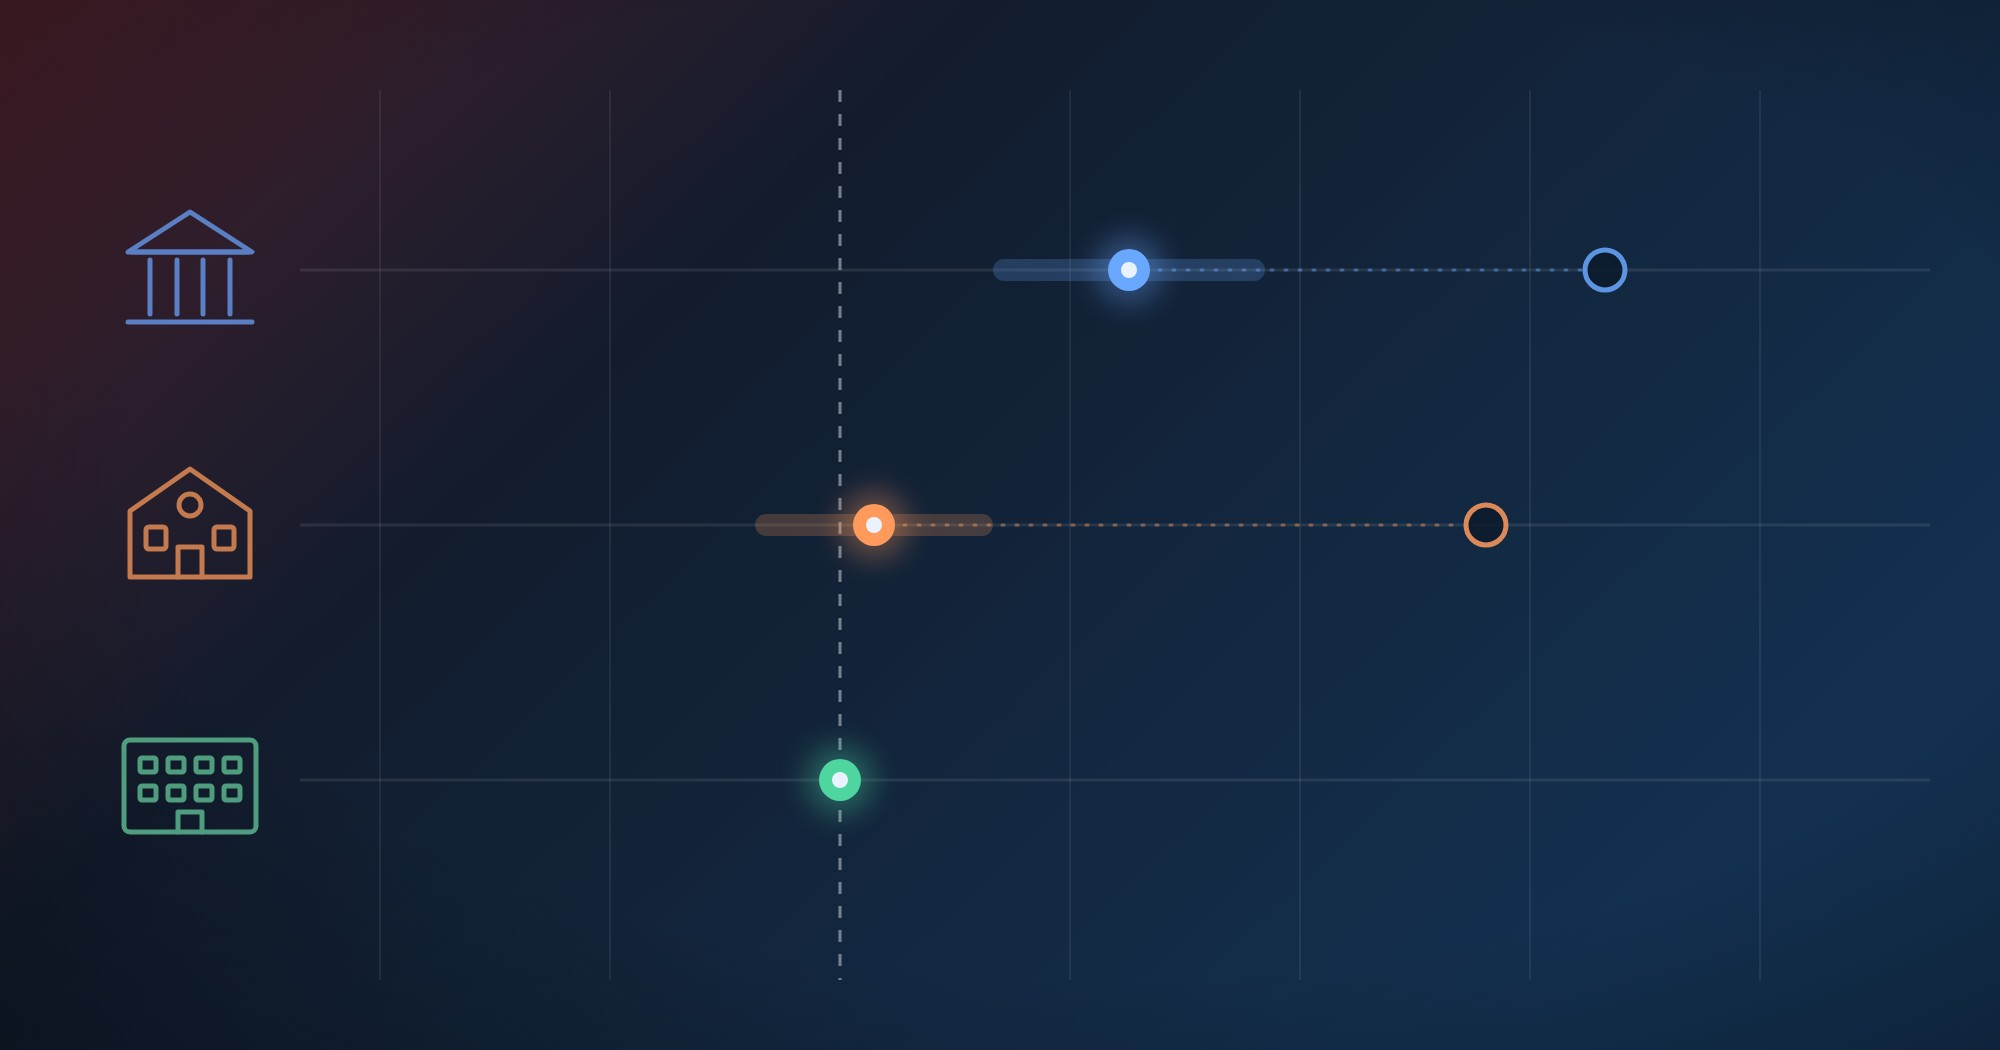
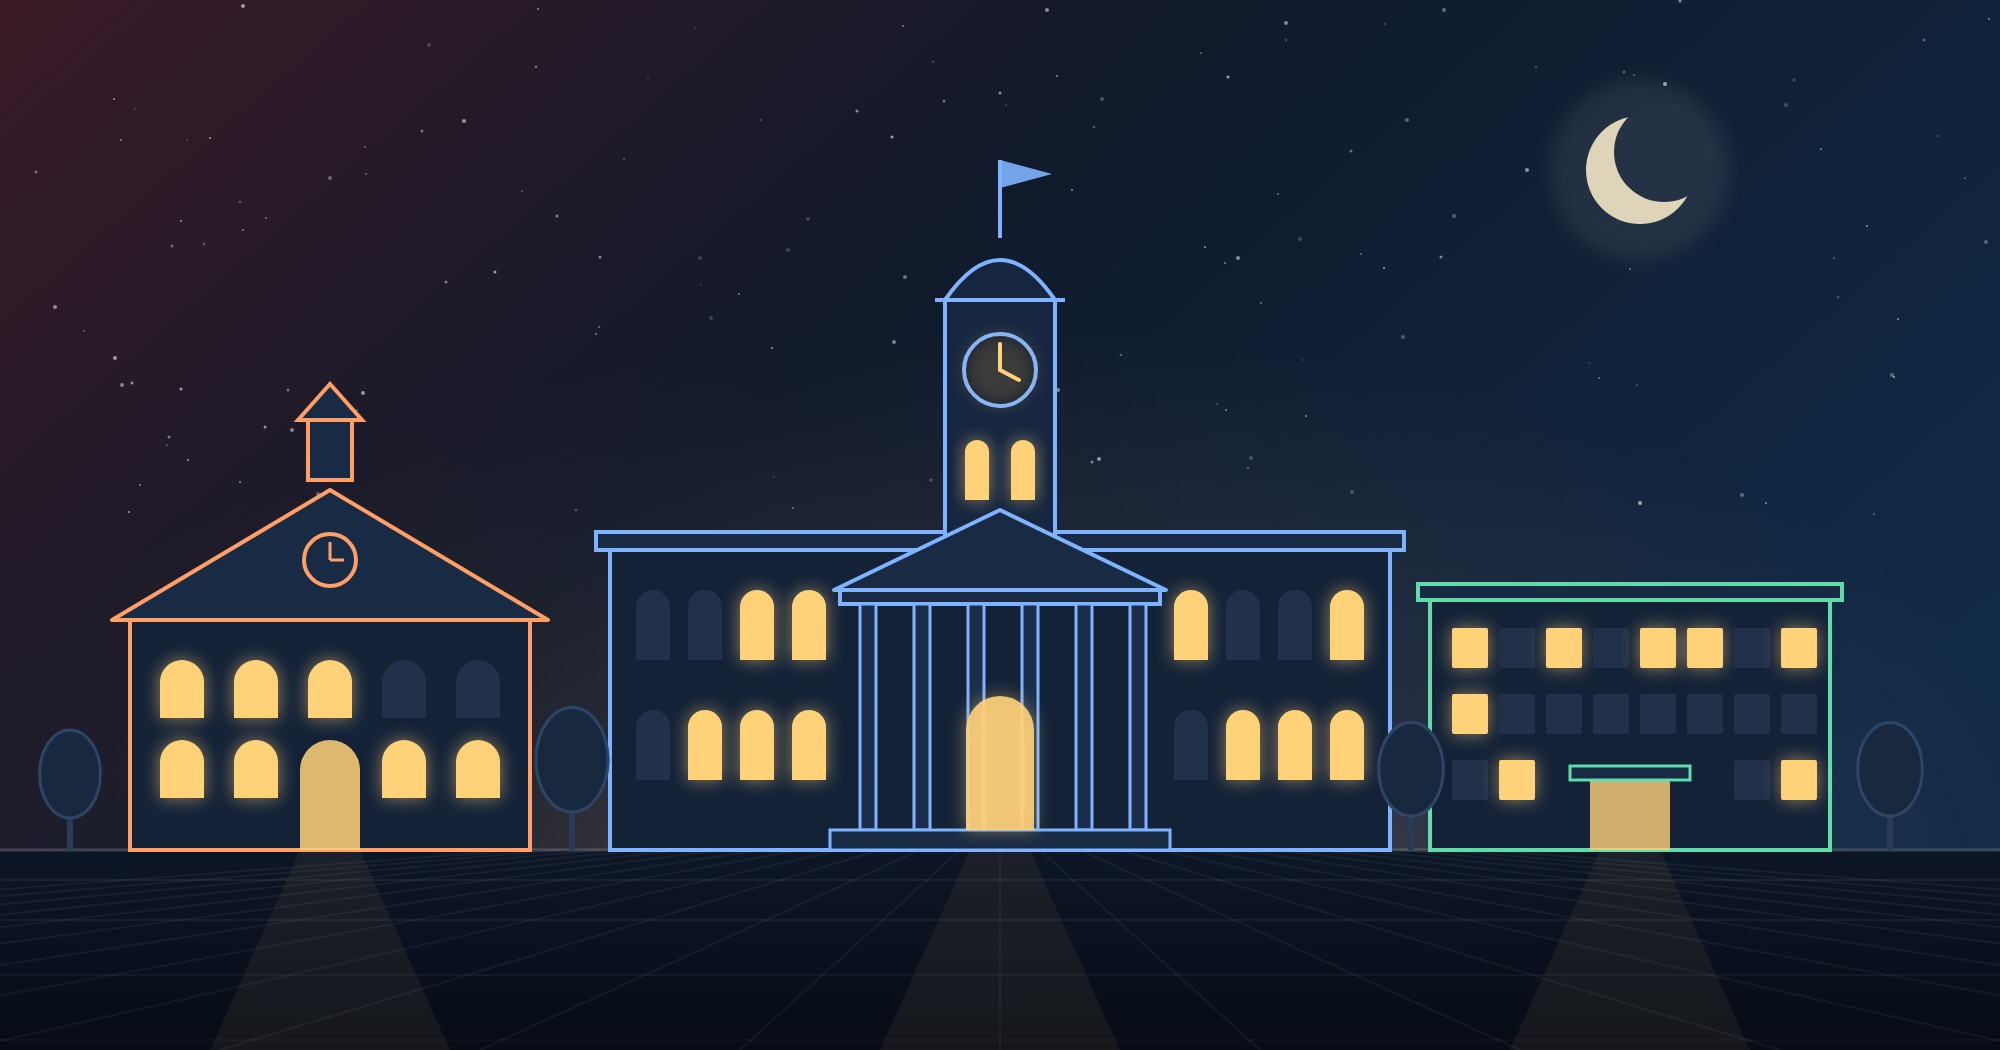
Replace the cover of "Does Private School Pay?" with a school scene
A night-time illustration of a grammar school, a columned private school
with a clock tower and a modern comprehensive, in the article's colours,
so the cover no longer resembles the comfort-index covers.

Claude-Session: https://claude.ai/code/session_01Wxb3xtHiZtztrKhQNrVJnM

diff --git a/content/posts/private-grammar-comprehensive/index.md b/content/posts/private-grammar-comprehensive/index.md
@@ -8,7 +8,7 @@ tags: ["education", "earnings", "cost-benefit", "england", "reproducibility"]
 cover:
   image: cover.jpg
   relative: true
-  alt: "Abstract chart on a dark background: three school buildings on the left (private, grammar, comprehensive), each leading a horizontal track; a hollow ring far to the right marks each school type's raw advantage and a glowing dot, pulled back towards a dashed reference line, marks what is left after adjusting for who gets in."
+  alt: "Night-time illustration of three schools side by side under a starry sky and a crescent moon: a gabled grammar school with a bell cupola in orange outline on the left, a large columned private school with a clock tower and flag in blue in the centre, and a modern flat-roofed comprehensive in green on the right, all with warmly lit windows."
 ShowToc: true
 TocOpen: true
 ---
